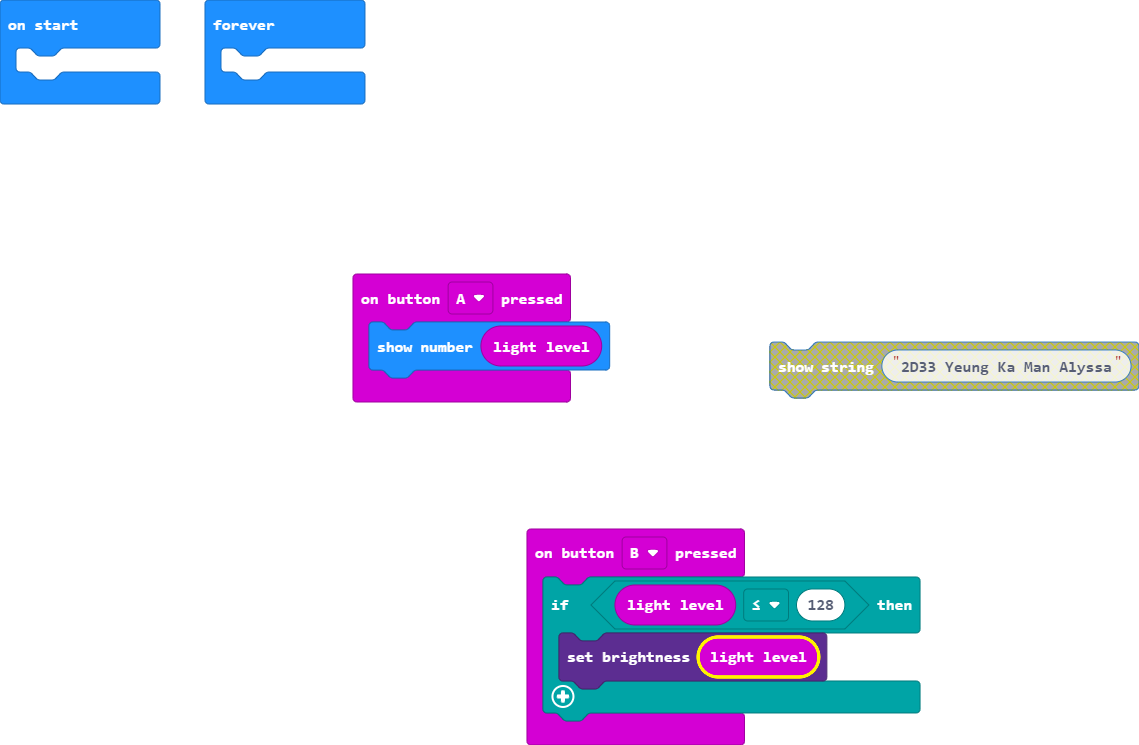
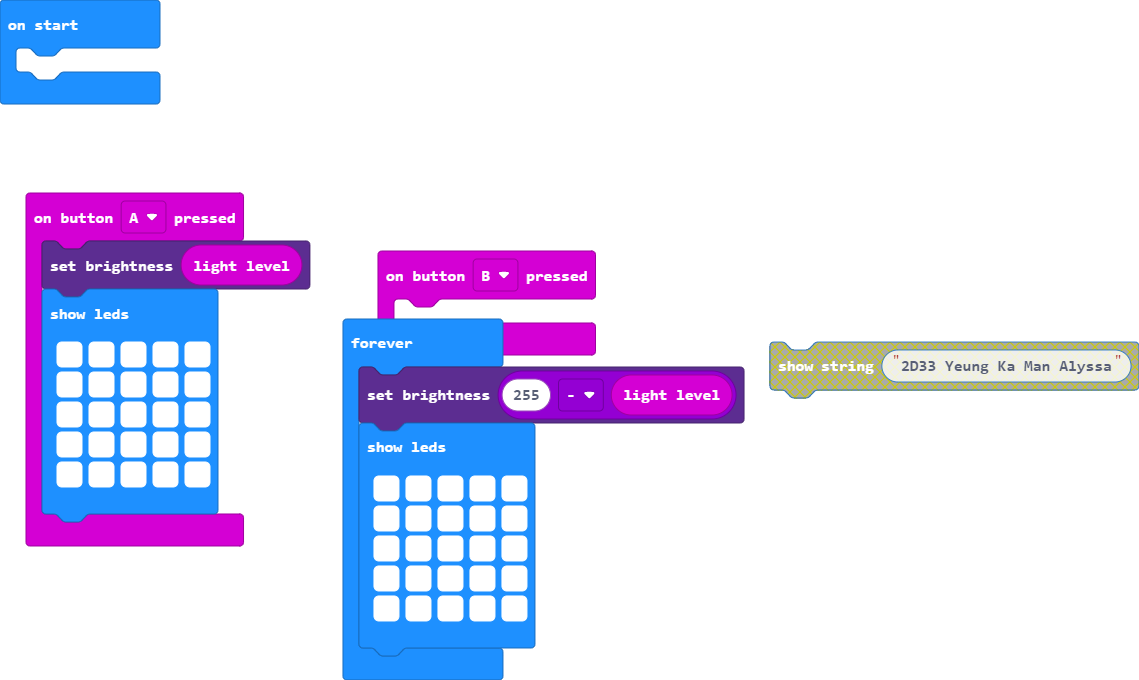
Update main.blocks, main.ts

Changed region(s): [[0.2766, 0.3397, 1.0, 1.0], [0.0, 0.2779, 0.2766, 0.8029], [0.0, 0.0, 0.338, 0.1544]]

diff --git a/main.ts b/main.ts
@@ -1,11 +1,23 @@
 input.onButtonPressed(Button.A, function () {
-    basic.showNumber(input.lightLevel())
+    led.setBrightness(input.lightLevel())
+    basic.showLeds(`
+        # # # # #
+        # # # # #
+        # # # # #
+        # # # # #
+        # # # # #
+        `)
 })
 input.onButtonPressed(Button.B, function () {
-    if (input.lightLevel() <= 128) {
-        led.setBrightness(input.lightLevel())
-    }
+	
 })
 basic.forever(function () {
-	
+    led.setBrightness(255 - input.lightLevel())
+    basic.showLeds(`
+        # # # # #
+        # # # # #
+        # # # # #
+        # # # # #
+        # # # # #
+        `)
 })
